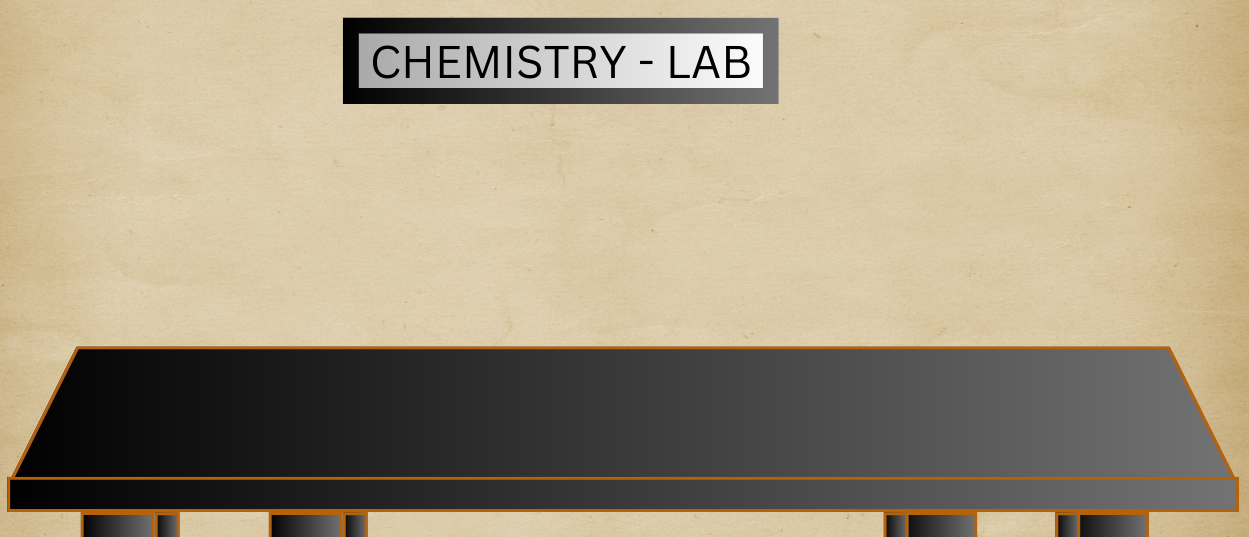
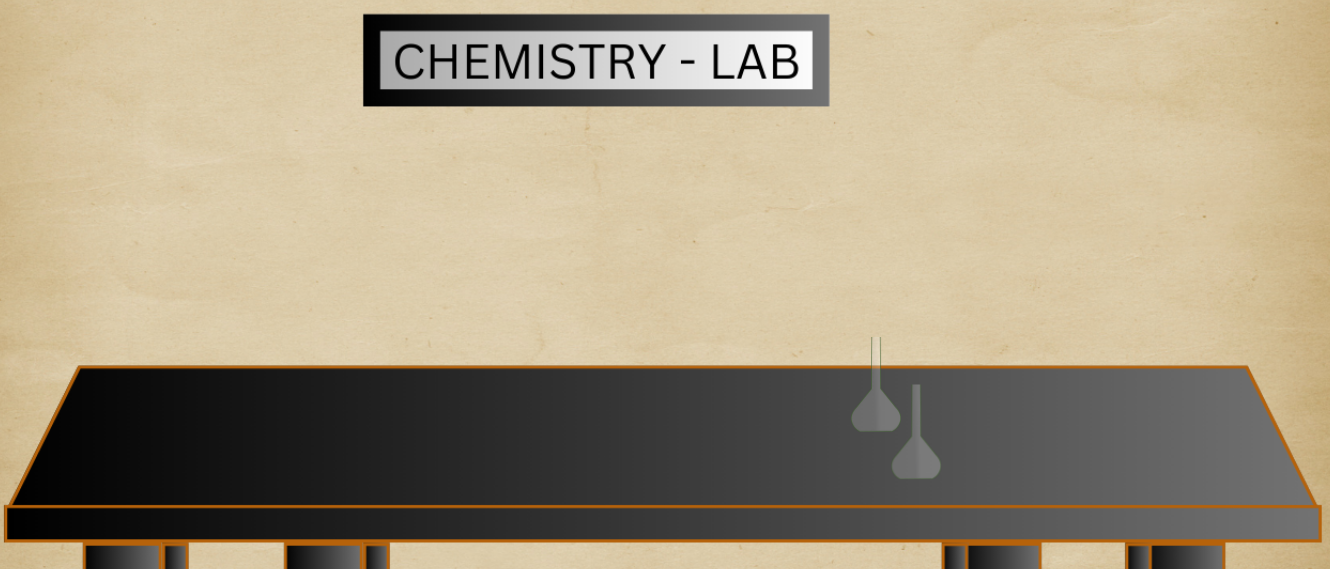
add some code

diff --git a/experiment/simulation/js/main.js b/experiment/simulation/js/main.js
@@ -1,34 +1,72 @@
+let currentStep = "step1";  //controls the experiment step
+
+//speak
 let btn = document.querySelector("#start");
 let txt = document.querySelector("#text");
 let txt1 = document.querySelector(".step1");
 
-function speak(text){
-    let text_speak = new SpeechSynthesisUtterance(text)
-    text_speak.rate = 1.2
-    text_speak.pitch = 1
-    text_speak.volume = 5
-    text_speak.lang = "hi-GB"
-    window.speechSynthesis.speak(text_speak)
-}
+// function speak(text){
+//     let text_speak = new SpeechSynthesisUtterance(text)
+//     text_speak.rate = 1.2
+//     text_speak.pitch = 1
+//     text_speak.volume = 5
+//     text_speak.lang = "hi-GB"
+//     window.speechSynthesis.speak(text_speak)
+// }
 
 window.addEventListener('load',()=>{
     speak(txt.innerText);
 })
 
 btn.addEventListener('click',()=>{
-    speak(txt1.innerText)
+    speak(txt1.innerText);
 })
 
+//timer
+function timer(){
+    let hand = document.getElementById("ph");
+    hand.style.transform = "translate(-26.5rem, -18rem)"
+
+    if(currentStep !== "step1") return;
+    currentStep = "step2";
+
+    let totalDuration = 10; // 5 seconds instead of 30 minutes
+let remainingTime = 30 * 60; // 30 minutes in seconds
+let intervalDuration = remainingTime / totalDuration; // Speed up factor
+let timerText = document.getElementById("timer");
+let progressCircle = document.querySelector(".progress");
+
+// Start countdown animation
+progressCircle.style.strokeDashoffset = 0;
+
+let interval = setInterval(() => {
+    remainingTime -= intervalDuration;
+    let minutes = Math.floor(remainingTime / 60);
+    let seconds = remainingTime % 60;
+    timerText.textContent = `${minutes}:${seconds < 10 ? '0' : ''}${seconds}`;
+    
+    if (remainingTime <= 0) {
+        clearInterval(interval);
+        timerText.textContent = "00:00";
+    }
+}, 1000);
+
+let time = document.getElementById("timer-container")
+setTimeout(() => {
+    time.style.display = "none"; // hide the cuvette
+}, 15000);
+
+//text
+let msg = document.getElementById("text");
+msg.innerText = "click on the flask to put prepared solution  in cuvette."
+speak(msg.innerText)
+}
 
 // process
 
-function start(){
-    let msg = document.getElementById("text");
-    msg.innerText = "click on the flask to put prepared solution  in cuvette."
-    speak(msg.innerText)
-}
-
 function pourWater() {
+    if(currentStep !== "step2") return;
+    currentStep = "step3";
     let bottle = document.getElementById("a3");
     let waterFill = document.getElementById("a5");
     let msg = document.getElementById("text");
@@ -51,6 +89,8 @@ function pourWater() {
 }
 
 function pourSolvent(){
+    if(currentStep !== "step3") return;
+    currentStep = "step4";
     let beaker = document.getElementById("a2");
     let solventFill = document.getElementById("a9");
 
@@ -72,6 +112,8 @@ function pourSolvent(){
 }
 
 function pourBottle() {
+    if(currentStep !== "step4") return;
+    currentStep = "step5";
     let bottle2 = document.getElementById("a4")
     
     // Move cuvette near the spectrophotometer and kept it
@@ -79,7 +121,7 @@ function pourBottle() {
 
     setTimeout(() => {
         bottle2.style.display = "none"; // hide the cuvette
-    }, 2500);
+    }, 5500);
 
     let msg = document.getElementById("text");
     msg.innerText = "click on refrence cuvette to kept in spectrophotometer."
@@ -87,6 +129,9 @@ function pourBottle() {
 }
 
 function pourBottle2() {
+    if(currentStep !== "step5") return;
+    currentStep = "step6";
+
     let bottle3 = document.getElementById("a8")
     
     // Move cuvette near the spectrophotometer and kept it
@@ -94,7 +139,7 @@ function pourBottle2() {
 
     setTimeout(() => {
         bottle3.style.display = "none";
-    }, 2500);
+    }, 4000);
 
      let msg = document.getElementById("text");
     msg.innerText = "close the cover of spectrophotometer"
@@ -102,6 +147,9 @@ function pourBottle2() {
 }
 
 function changeImage(){
+    if(currentStep !== "step6") return;
+    currentStep = "step7";
+
    document.getElementById("a1").src = "./images/specto-off1.png";
 
    let msg = document.getElementById("text");
@@ -162,3 +210,5 @@ var myChart = new Chart(ctx, {
     data: data,
     options: options
 });
+
+

diff --git a/experiment/simulation/css/main.css b/experiment/simulation/css/main.css
@@ -56,6 +56,46 @@ body{
     font-weight: 100;
     color: blue;
 }
+
+/* timer */
+.timer-container {
+    position: relative;
+    top: 5%;
+    left: 10%;
+    width: 220px;
+    height: 220px;
+    display: flex;
+    justify-content: center;
+    align-items: center;
+    font-size: 36px;
+    font-weight: bold;
+    color: #fff;
+    border-radius: 50%;
+    background: radial-gradient(circle, #222, #000);
+    box-shadow: 0 0 15px rgba(0, 255, 0, 0.6);
+}
+.progress-ring {
+    position: absolute;
+    width: 100%;
+    height: 100%;
+}
+svg {
+    transform: rotate(-90deg);
+}
+circle {
+    transition: stroke-dashoffset 10s linear;
+    fill: none;
+}
+.background-ring {
+    stroke: #444;
+}
+.progress-ring circle {
+    stroke: #00ff00;
+    stroke-dasharray: 283;
+    stroke-dashoffset: 283;
+}
+
+/* simulation */
 .simulate #lab{
     height: 100%;
     width: 100%;
@@ -454,6 +494,30 @@ body{
 }
 
 /* steps */
+#ph {
+    position: absolute;
+    height: 8%;
+    width: 6%;
+    transition: all;
+    transition-duration: 1s;
+    animation: blink 1s;
+    animation-iteration-count: infinite;
+    visibility: visible;
+    rotate: 180deg;
+    transform: translate(10rem,-26rem);
+}
+
+@keyframes blink {
+    0% {
+      opacity: 1;
+    }
+    50% {
+      opacity: 0;
+    }
+    100% {
+      opacity: 1;
+    }
+  }
 
 .machine{
     width: 16.2em;

diff --git a/experiment/simulation/step.html b/experiment/simulation/step.html
@@ -17,9 +17,11 @@
 			<div class="simulate" id="simulator">
 				<img id="lab" src="./images/lab2.png" alt="images">
 			</div>
-			<div id="work">				
+			<div id="work">	
+									
 						<img id="a1" class="machine" src="./images/specto-on.png" alt="machine" onclick="changeImage()">
-						<input type="radio" id="powbtn" class="radio" onclick="start()" >
+						<img id="ph" src="./images/hand.png" alt="hand">
+						<input type="radio" id="powbtn" class="radio" onclick="timer()" >
 						<img id="a2" class="solvent" src="./images/Cyclohexane.png" alt="solvent" onclick="pourSolvent()" title="beaker">
 						<!-- Bottle Image -->
 						<img id="a3" src="./images/Conical flask.png" class="conicalflask" onclick="pourWater()" title="triene">
@@ -40,6 +42,13 @@
 				<h1 id="text" class="step1">
 					Turn -ON the spectrophotometer and wait for 30 minutes.
 				</h1>
+				<div class="timer-container" id="timer-container">
+					<svg class="progress-ring" width="220" height="220" viewBox="0 0 100 100">
+						<circle class="background-ring" cx="50" cy="50" r="45" />
+						<circle class="progress" cx="50" cy="50" r="45" stroke-dasharray="283" stroke-dashoffset="283" />
+					</svg>
+					<div id="timer">30:00</div>
+				</div>
 			</div>
 		</div>
 		

diff --git a/experiment/simulation/index.html b/experiment/simulation/index.html
@@ -62,7 +62,7 @@
 				<h1 id="ins">Instructions</h1>
 				<h1 id="text">
 					Make yourself familiar with the instruments by hovering over them, then click on start button to start the experiment.
-				</h1>
+				</h1>			
 			</div>
 		</div>
 		
